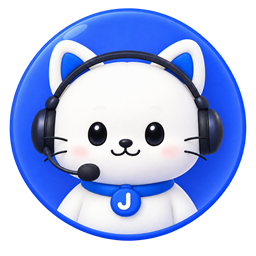
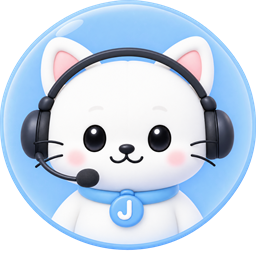
style: refresh counseling chat and hero copy

diff --git a/jobpilot-ai/frontend/src/styles.css b/jobpilot-ai/frontend/src/styles.css
@@ -396,10 +396,10 @@ a { color: inherit; text-decoration: none; }
 .home-hero { position: relative; display: grid; min-height: clamp(310px, 25vw, 390px); overflow: hidden; isolation: isolate; border-radius: 20px; background: linear-gradient(120deg, #2f4b8f 0%, #405cbd 57%, #5870e4 100%); padding: clamp(30px, 5vw, 58px); color: #fff; }
 .home-hero::before { position: absolute; z-index: -1; inset: 0; background: url("/hero/cat-career-hero-background.png") center / cover no-repeat; content: ""; pointer-events: none; }
 .home-hero-copy { position: relative; z-index: 1; width: min(58%, 610px); }
-.home-hero .eyebrow { color: #bdc9ff; }
-.home-hero h1 { margin: 12px 0 15px; font-size: clamp(31px, 4vw, 50px); letter-spacing: -2.2px; line-height: 1.18; }
-.home-hero h1 em { color: #bdc9ff; font-style: normal; }
-.home-hero > div > p { max-width: 610px; margin: 0; color: #d9e1ff; font-size: 14px; line-height: 1.8; }
+.home-hero .eyebrow { color: #385d97; }
+.home-hero h1 { margin: 12px 0 15px; color: #1d2b42; font-size: clamp(31px, 4vw, 50px); letter-spacing: -2.2px; line-height: 1.18; }
+.home-hero h1 em { color: #1f4f9a; font-style: normal; }
+.home-hero > div > p { max-width: 610px; margin: 0; color: #1d2635; font-size: 14px; line-height: 1.8; }
 .home-hero-actions { display: flex; flex-wrap: wrap; gap: 11px; margin-top: 26px; }
 .home-hero .primary-button { background: #fff; color: #4560cd; padding: 12px 15px; text-decoration: none; font-size: 12px; }
 .home-secondary-link { display: inline-flex; align-items: center; color: #fff; font-size: 12px; font-weight: 800; text-decoration: underline; text-underline-offset: 4px; }
@@ -576,11 +576,20 @@ a { color: inherit; text-decoration: none; }
 .interview-chat-widget-toggle:hover:not(.is-open) .interview-chat-widget-mascot::after, .interview-chat-widget-toggle:focus-visible:not(.is-open) .interview-chat-widget-mascot::after { animation: bobo-chat-talk .68s steps(1, end) infinite; }
 @keyframes bobo-chat-talk { 0%, 47%, 100% { opacity: 0; } 48%, 99% { opacity: 1; } }
 @media (prefers-reduced-motion: reduce) { .interview-chat-widget-toggle { transition: none; } .interview-chat-widget-toggle:hover:not(.is-open) .interview-chat-widget-mascot::after, .interview-chat-widget-toggle:focus-visible:not(.is-open) .interview-chat-widget-mascot::after { animation: none; } }
-.interview-chat-widget-panel { position: fixed; z-index: 40; right: 24px; bottom: 122px; display: flex; flex-direction: column; width: 360px; max-width: calc(100vw - 32px); max-height: min(600px, calc(100vh - 140px)); border: 1px solid #e8ebf1; border-radius: 16px; background: #fff; box-shadow: 0 20px 48px #1e315433; overflow: hidden; }
-.interview-chat-widget-header { display: flex; align-items: center; justify-content: space-between; border-bottom: 1px solid #eef0f4; background: linear-gradient(100deg, #f6f8ff, #fff); padding: 14px 16px; }
-.interview-chat-widget-header span { display: flex; align-items: center; gap: 6px; color: #293349; font-size: 13px; font-weight: 800; }
-.interview-chat-widget-header button { display: grid; place-items: center; border: 0; background: transparent; color: #9098a7; cursor: pointer; }
-.interview-chat-widget-log { flex: 1; min-height: 220px; max-height: 340px; padding: 14px; }
+.interview-chat-widget-panel { position: fixed; z-index: 40; right: 24px; bottom: 122px; display: flex; flex-direction: column; width: 430px; max-width: calc(100vw - 32px); max-height: min(680px, calc(100vh - 140px)); border: 1px solid #cfe8f7; border-radius: 18px; background: #fff; box-shadow: 0 20px 48px #4f92be2e; overflow: hidden; }
+.interview-chat-widget-header { display: flex; align-items: center; justify-content: space-between; border-bottom: 1px solid #dceff8; background: linear-gradient(100deg, #eefaff, #fff); padding: 16px 18px; }
+.interview-chat-widget-header span { display: flex; align-items: center; gap: 7px; color: #28506b; font-size: 14px; font-weight: 800; }
+.interview-chat-widget-header span > svg { display: none; }
+.interview-chat-widget-header span::before { display: block; width: 25px; height: 25px; border-radius: 50%; background: url('/mascot/bobo-chat-idle-square.png') center / 100% 100% no-repeat; content: ""; }
+.interview-chat-widget-header button { display: grid; place-items: center; border: 0; border-radius: 8px; background: #dff4ff; color: #3f82a8; padding: 5px; cursor: pointer; }
+.interview-chat-widget-log { flex: 1; min-height: 280px; max-height: 430px; padding: 17px; }
+.interview-chat-widget-panel .interview-chat-bubble.bot .interview-chat-avatar { overflow: hidden; background: url('/mascot/bobo-chat-idle-square.png') center / 100% 100% no-repeat; color: transparent; }
+.interview-chat-widget-panel .interview-chat-bubble.bot .interview-chat-avatar svg { display: none; }
+.interview-chat-widget-panel .interview-chat-bubble.bot .interview-chat-bubble-body { border-color: #d5edf8; background: #f2fbff; }
+.interview-chat-widget-panel .interview-chat-bubble.user .interview-chat-bubble-body { background: #78c4ea; }
+.interview-chat-widget-panel .interview-chat-input-row { border-color: #dceff8; }
+.interview-chat-widget-panel .interview-chat-input-row textarea { border-color: #cce8f5; background: #fbfeff; }
+.interview-chat-widget-panel .primary-button { border-color: #72bee6; background: #72bee6; box-shadow: 0 5px 11px #72bee644; color: #174c6d; }
 @media (max-width: 480px) { .interview-chat-widget-panel { right: 16px; left: 16px; width: auto; } .interview-chat-widget-toggle { right: 16px; } }
 
 /* 2026-08-06: 모의면접 시작화면 - "캠/마이크 세션형"과 "채팅 연습형" 두 진입점을 동등한
